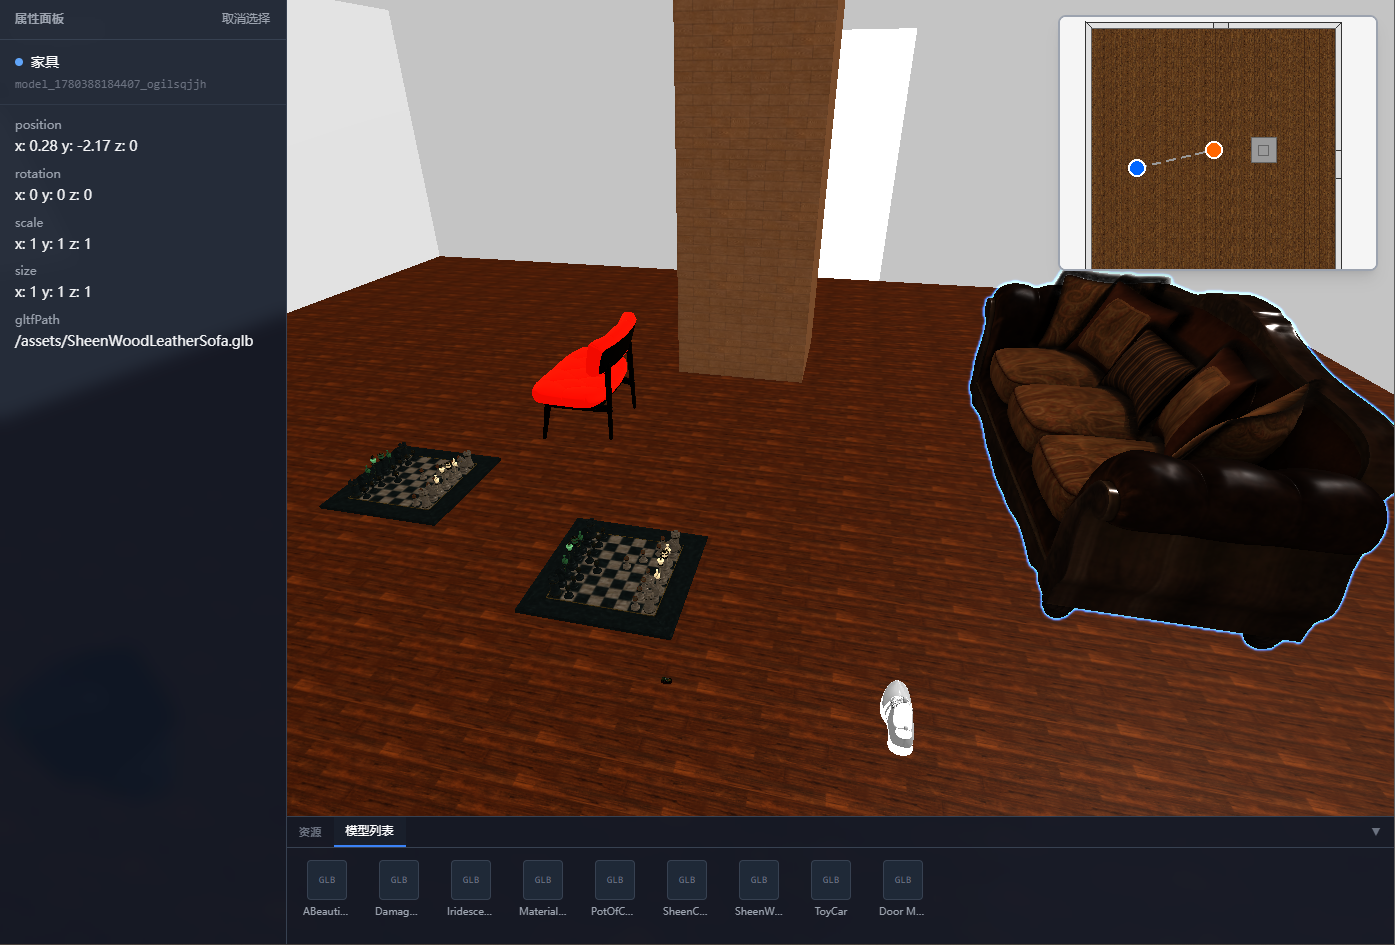
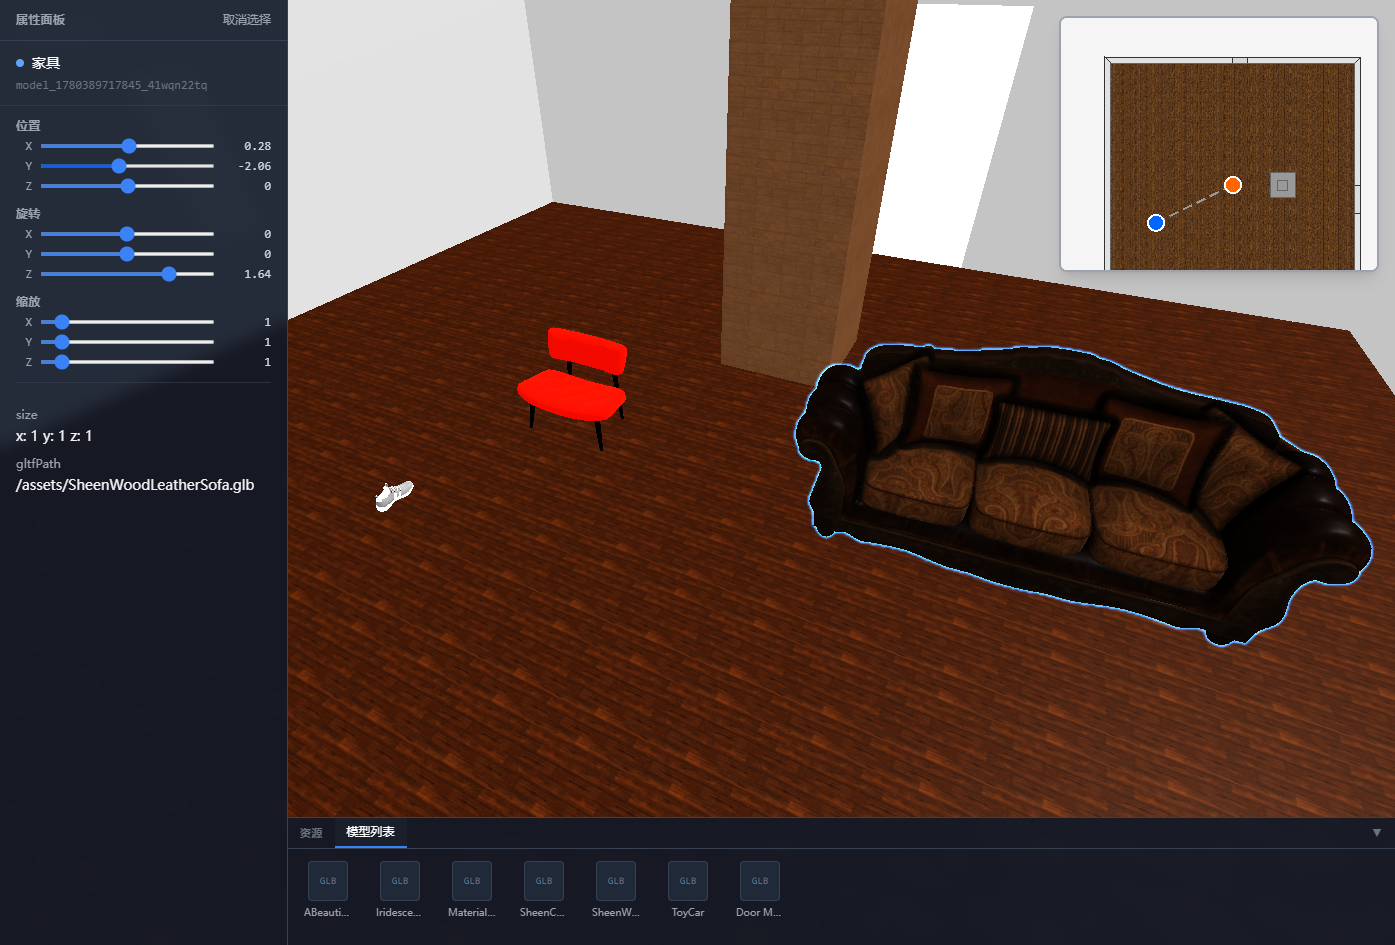
Remove DamagedHelmet and PotOfCoals models, update UI and screenshot

diff --git a/src/app/ui/SelectionPanel.tsx b/src/app/ui/SelectionPanel.tsx
@@ -3,6 +3,7 @@ import * as THREE from 'three';
 import { App as CoreApp } from '../../core';
 import { useModelListener } from './util/useModelListener';
 import { ParametricModel } from '../../core/model/ParametricModel';
+import { FurnitureModel } from '../../core/model/FurnitureModel';
 import { GroundModel } from '../../core/model/GroundModel';
 import { CeilingModel } from '../../core/model/CeilingModel';
 import { Material } from '../../core/material/Material';
@@ -257,17 +258,19 @@ function ParamsSection({ model }: { model: ParametricModel }) {
 }
 
 interface TransformSectionProps {
-    model: ParametricModel;
+    model: ParametricModel | FurnitureModel;
+    event?: string;
 }
 
-function TransformSection({ model }: TransformSectionProps) {
-    // Listen to transformChange to re-render sliders
-    useModelListener(model, 'transformChange');
+function TransformSection({ model, event = 'transformChange' }: TransformSectionProps) {
+    // Listen to transform event to re-render sliders
+    useModelListener(model, event);
 
     const pos = model.position;
     const rot = model.rotation;
     const scl = model.scale;
 
+    // Model layer uses architectural coordinates (XY ground, Z-up)
     const setPos = useCallback(
         (axis: 'x' | 'y' | 'z', v: number) => {
             const p = model.position.clone();
@@ -668,15 +671,19 @@ export function SelectionPanel() {
     const label = TYPE_LABELS[typeKey] ?? typeKey;
 
     const isParametric = firstModel instanceof ParametricModel;
+    const isFurniture = firstModel instanceof FurnitureModel;
+    const hasTransform = isParametric || isFurniture;
     const parametricMaterials = isParametric ? (firstModel as ParametricModel).materials : [];
 
     // Reactive material data from useModelListener
     const materialData = Object.keys(materialUIData).length > 0 ? materialUIData : null;
     const excludeKeys = new Set(['id', 'outerContour', 'innerContours', 'material']);
-    if (isParametric) {
+    if (hasTransform) {
         excludeKeys.add('position');
         excludeKeys.add('rotation');
         excludeKeys.add('scale');
+    }
+    if (isParametric) {
         excludeKeys.add('params');
         excludeKeys.add('materials');
     }
@@ -712,10 +719,13 @@ export function SelectionPanel() {
                 <p className="mt-1 text-xs text-gray-500 font-mono truncate">{first.id}</p>
             </div>
 
-            {/* Transform sliders for ParametricModel */}
-            {isParametric && (
+            {/* Transform sliders for ParametricModel and FurnitureModel */}
+            {hasTransform && (
                 <div className="px-4 py-3">
-                    <TransformSection model={firstModel} />
+                    <TransformSection
+                        model={firstModel as ParametricModel | FurnitureModel}
+                        event={isParametric ? 'transformChange' : 'change'}
+                    />
                 </div>
             )}
 

diff --git a/src/editor/components/ModelPanel.tsx b/src/editor/components/ModelPanel.tsx
@@ -10,10 +10,8 @@ import { AddModelEnvironment, EnvironmentManager } from '../env';
  */
 const GLB_MODELS = [
     { name: 'ABeautifulGame', file: 'ABeautifulGame.glb' },
-    { name: 'DamagedHelmet', file: 'DamagedHelmet.glb' },
     { name: 'IridescenceLamp', file: 'IridescenceLamp.glb' },
     { name: 'MaterialsVariantsShoe', file: 'MaterialsVariantsShoe.glb' },
-    { name: 'PotOfCoals', file: 'PotOfCoals.glb' },
     { name: 'SheenChair', file: 'SheenChair.glb' },
     { name: 'SheenWoodLeatherSofa', file: 'SheenWoodLeatherSofa.glb' },
     { name: 'ToyCar', file: 'ToyCar.glb' },